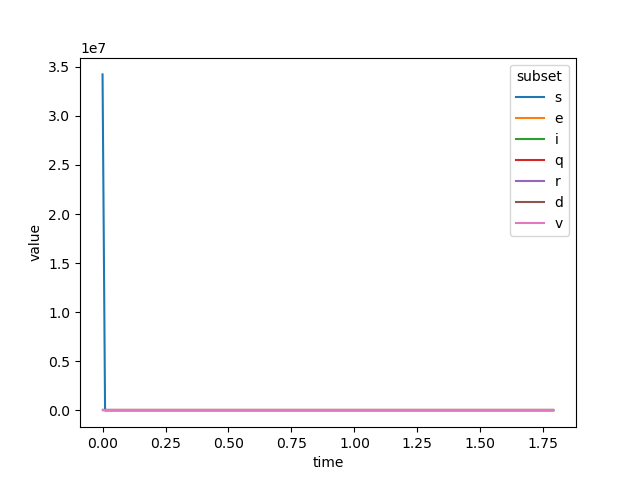
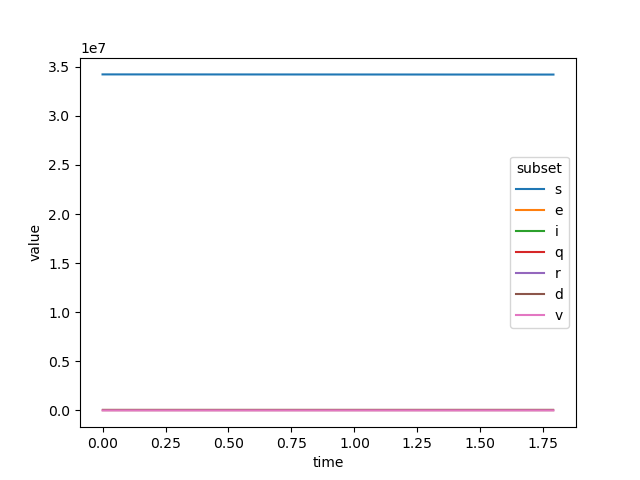
Fixing stats

diff --git a/src/main.cpp b/src/main.cpp
@@ -13,9 +13,9 @@
 
 // Model paramters
 #define LAMBDA 2300 // new births and residents per unit of time
-#define BETA 0.000000000858   // transmisson rate / N
-#define ALPHA 0.000000000343  // vaccination rate
-#define MU 30000    // natural death rate
+#define BETA 0.00000000858   // transmisson rate
+#define ALPHA 0.000035  // vaccination rate
+#define MU 0.0003    // natural death rate
 #define GAMMA 5.5   // incubation period
 #define SIGMA 0.05  // vaccine inefficacy
 #define DELTA 3.8   // infection time
